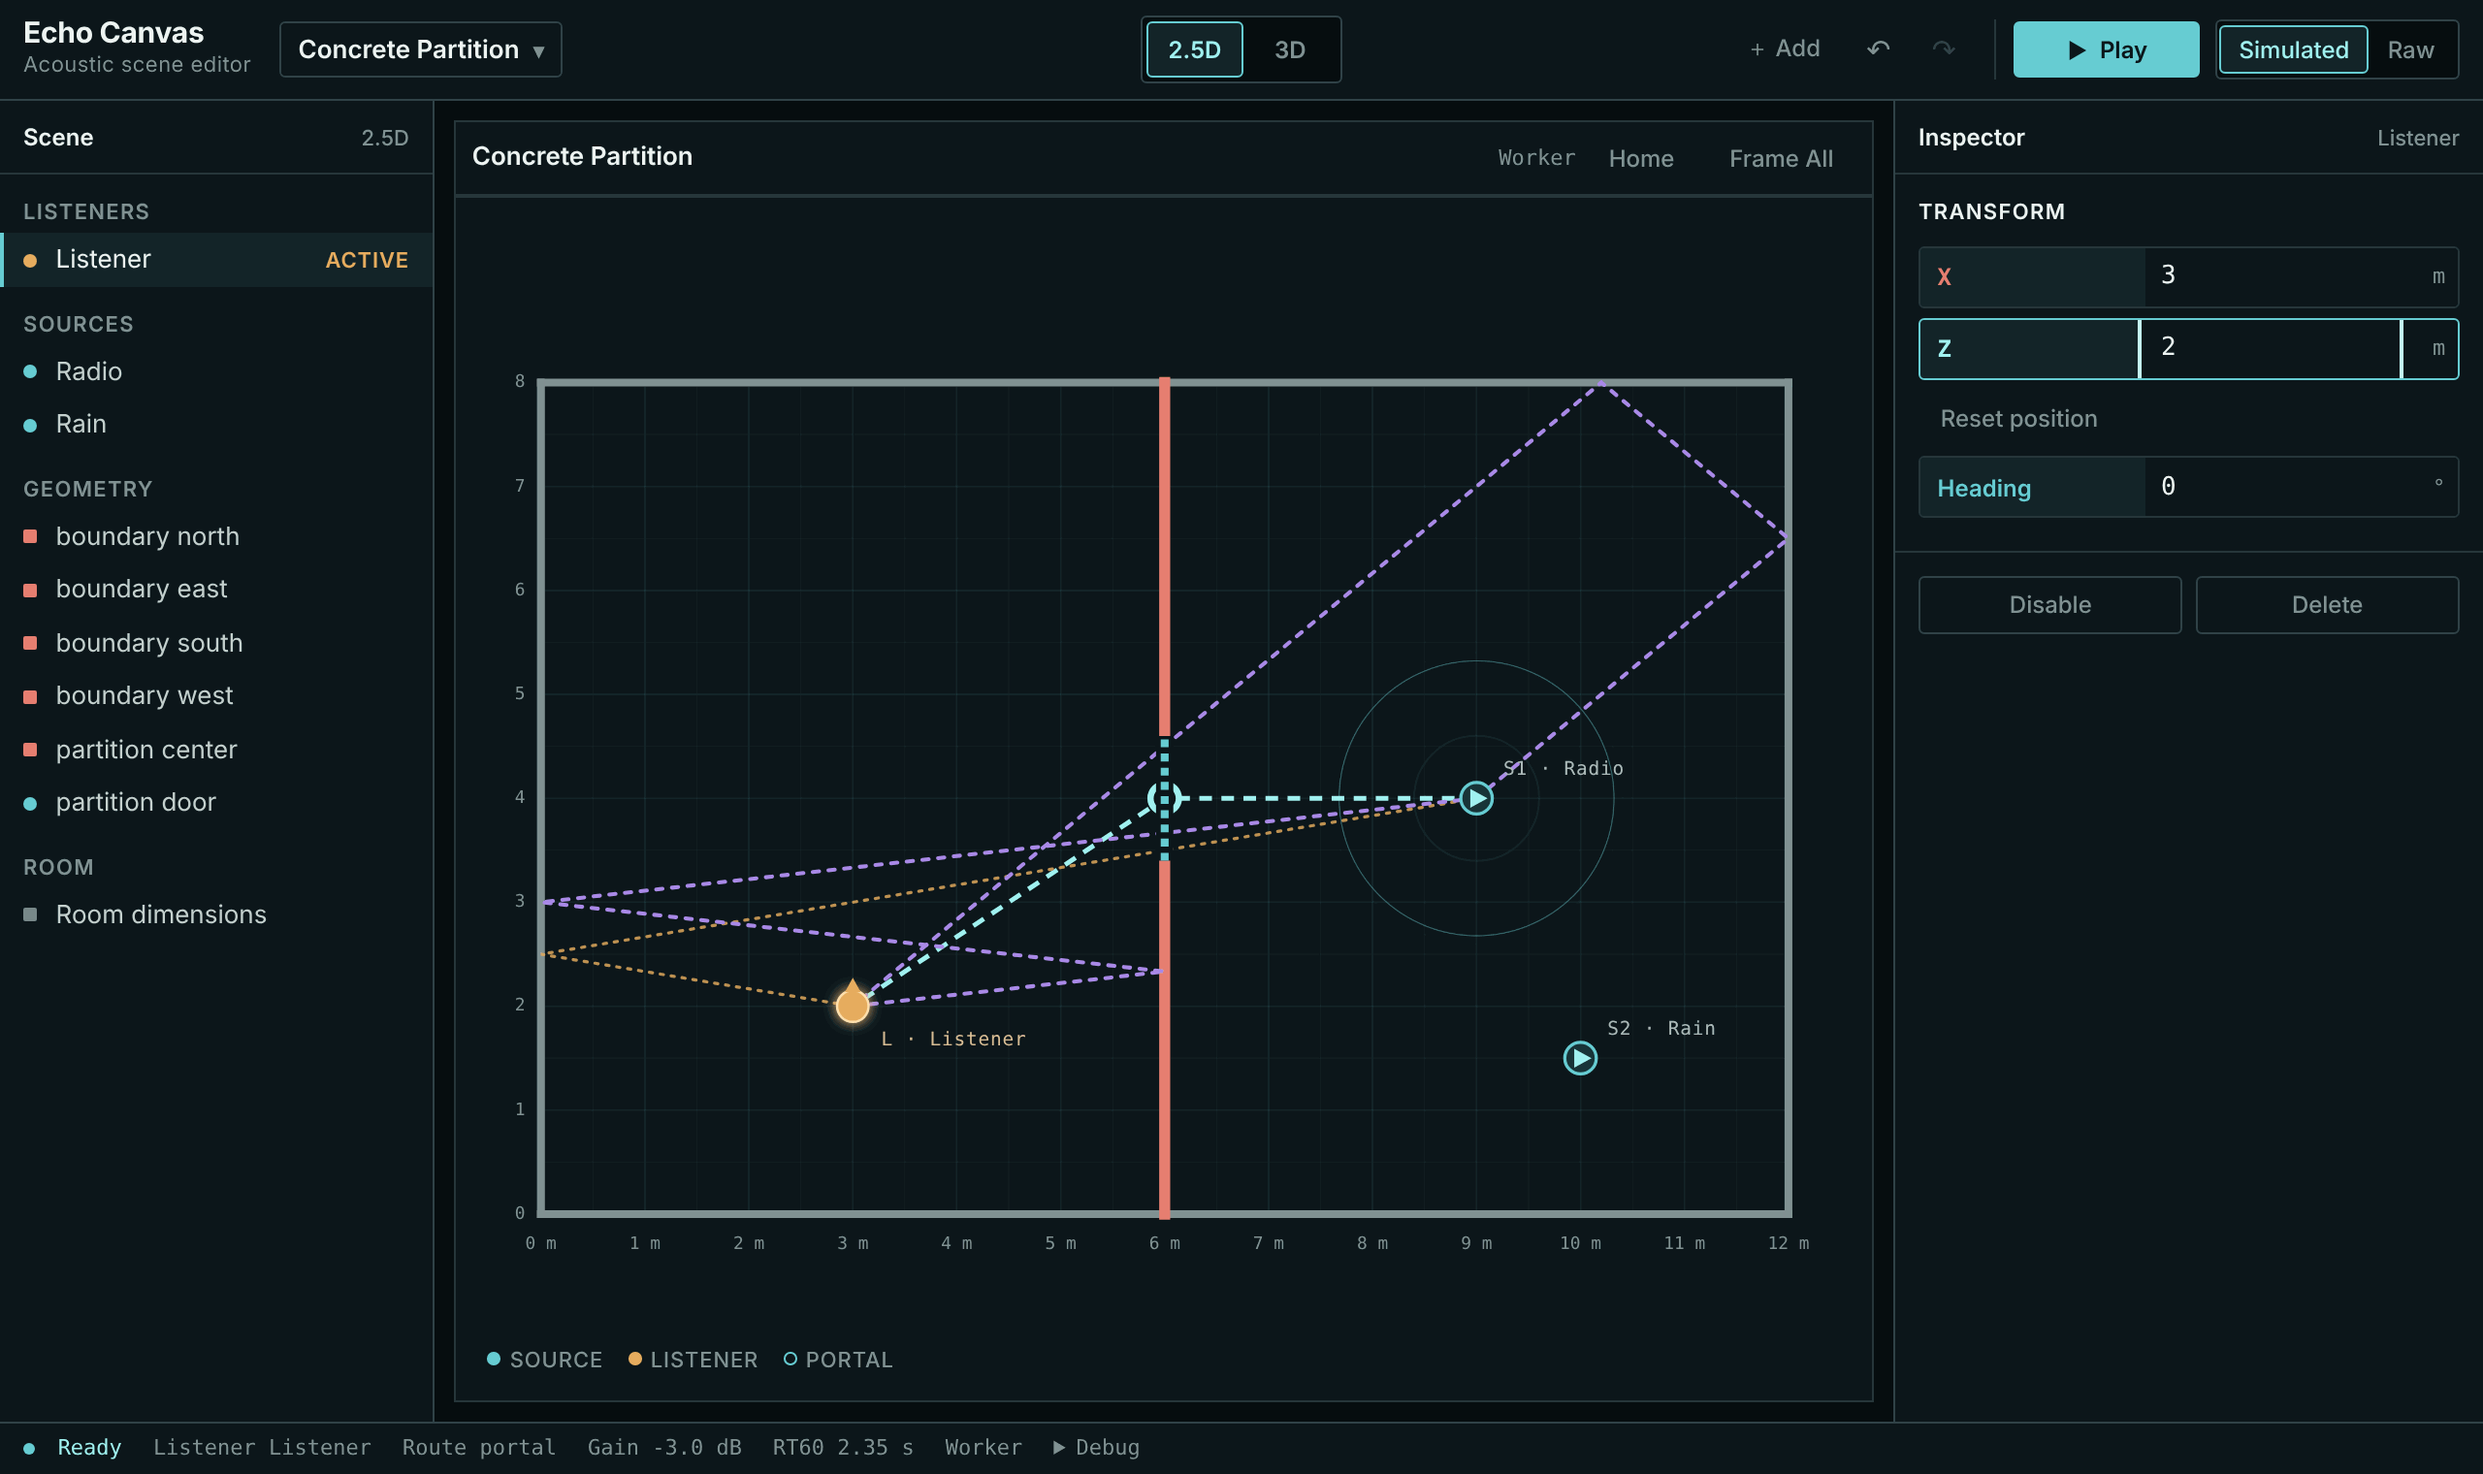
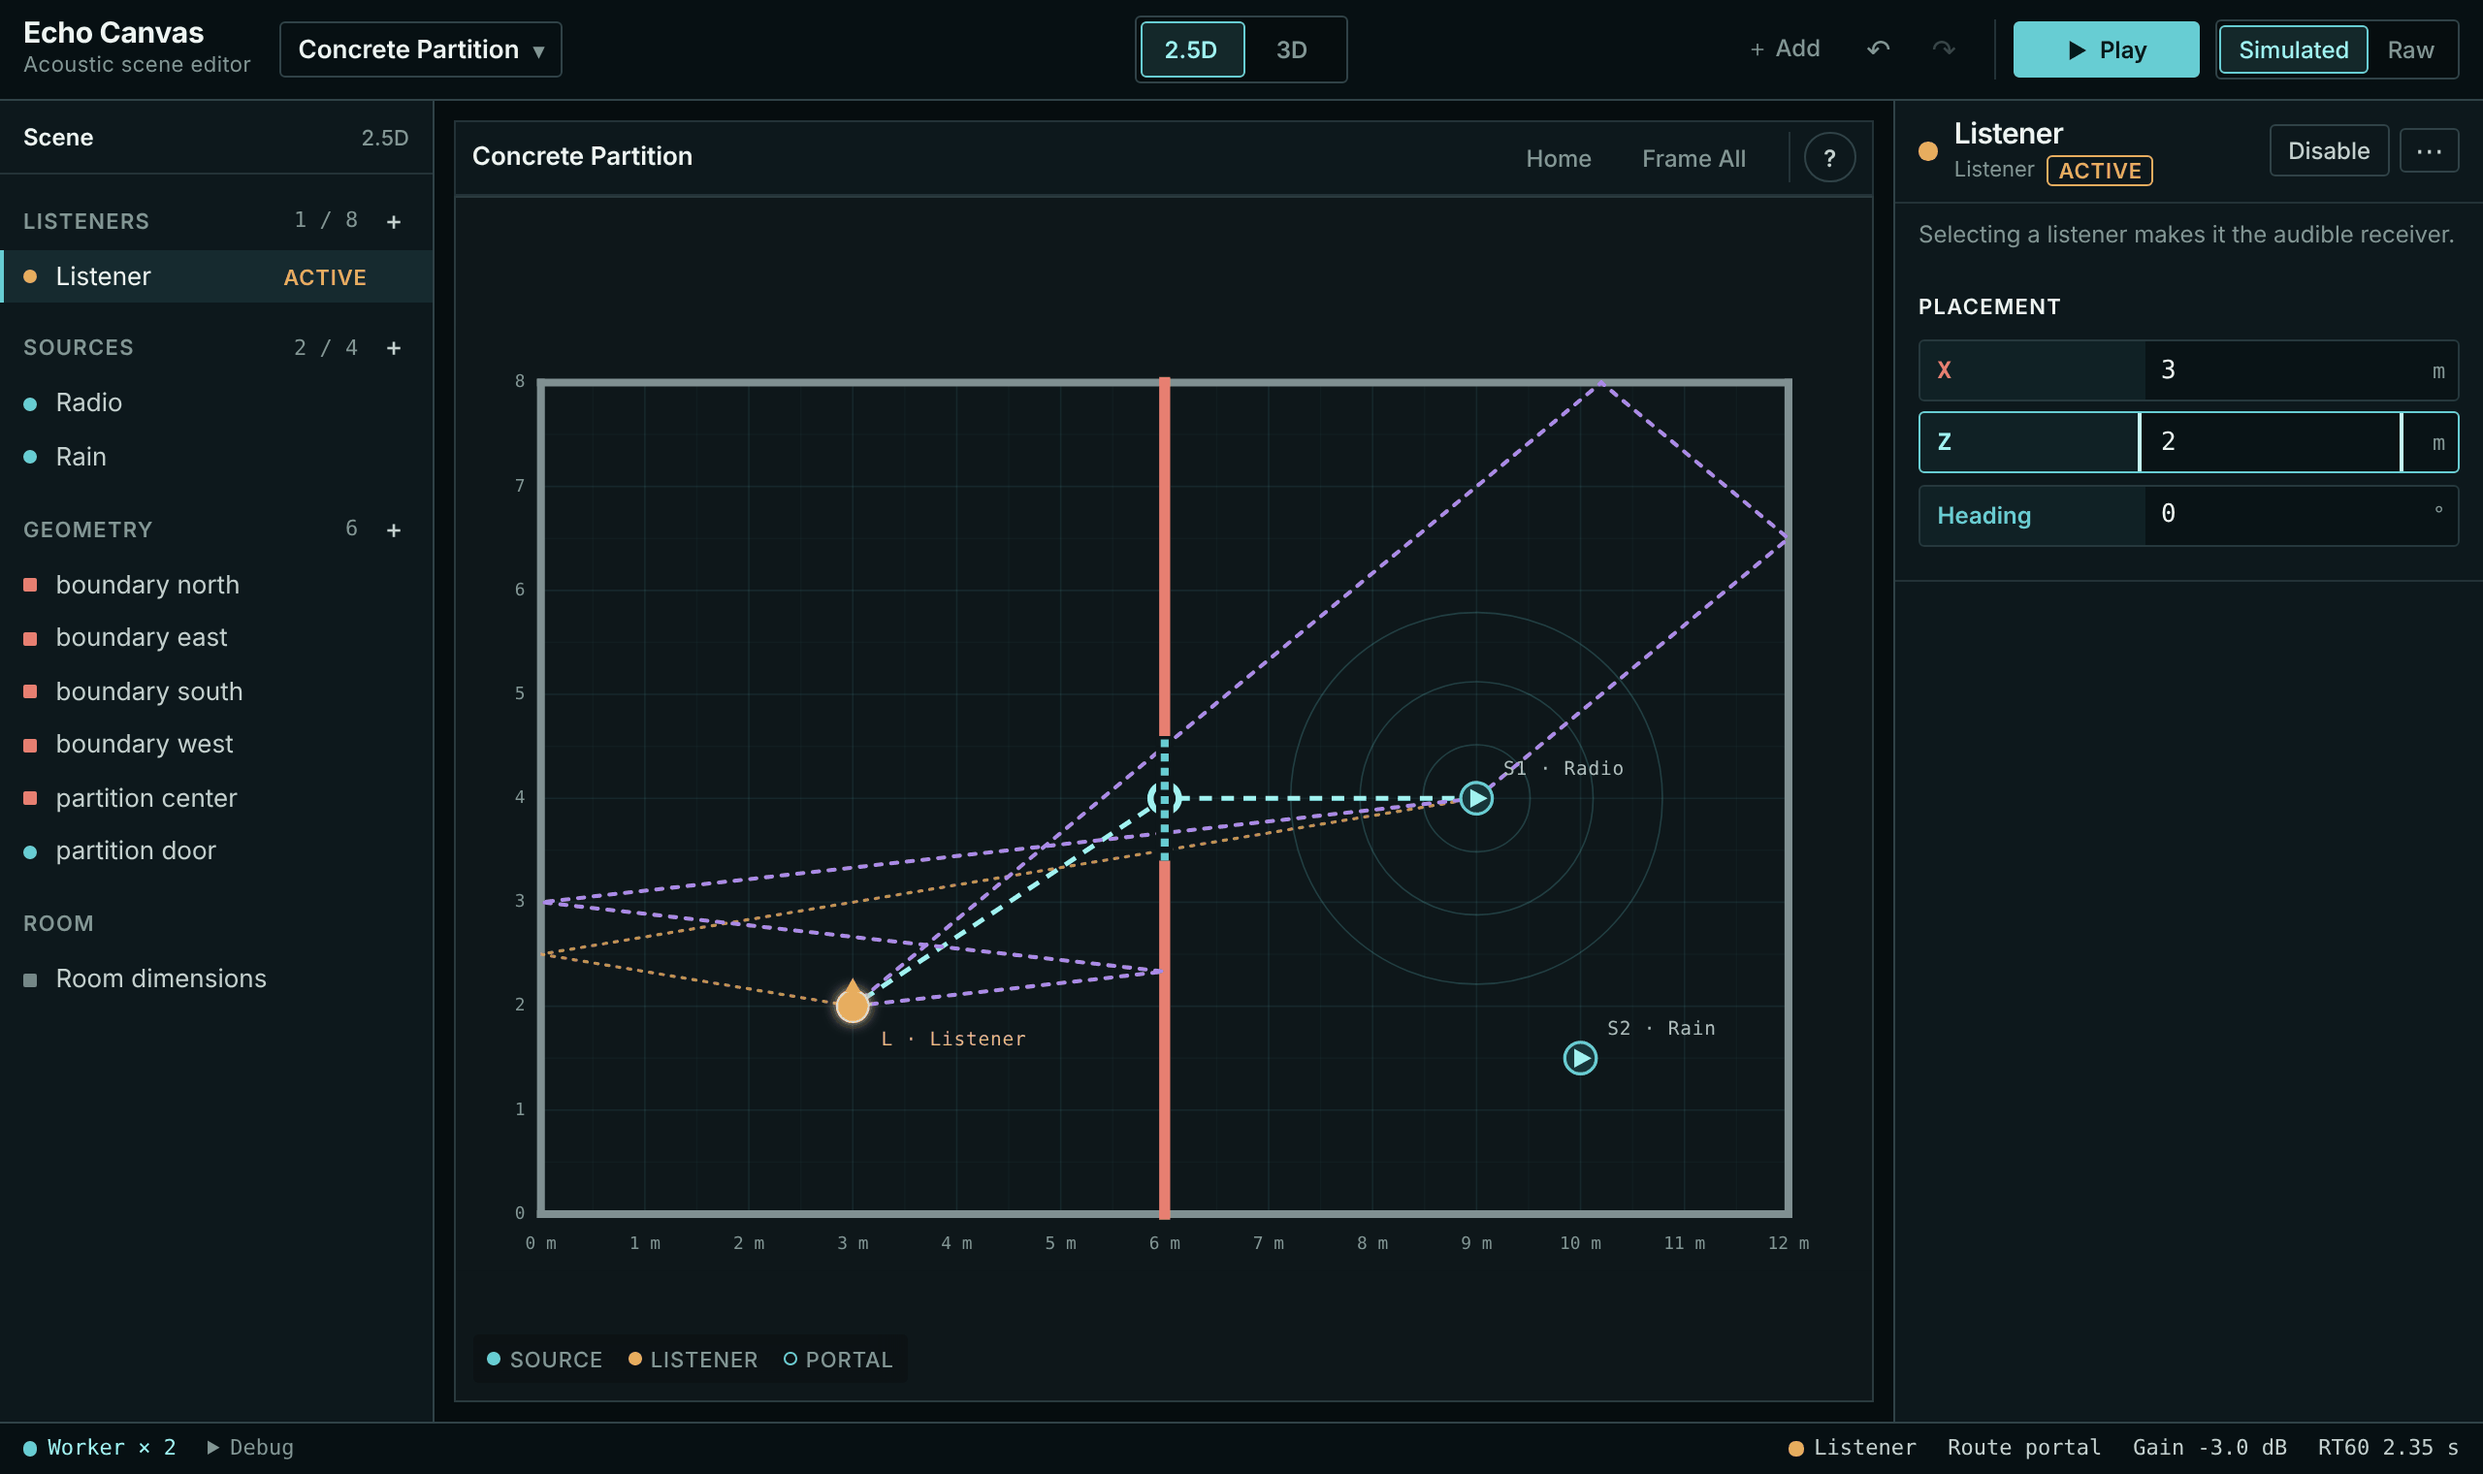
docs(tutorial): update the Portal walkthrough for the redesigned workspace
The walkthrough (#52) was written in parallel with the desktop redesign
(#38) and still named pre-redesign UI: the Inspector's "Transform"
section (now Placement), a "Portal" section for Close Portal (now under
Acoustics), and a project menu that had to be closed after choosing a
preset (it now closes itself). Its screenshots showed the old Inspector
and status bar.

Every step was replayed against a production build of main (480e9c6)
in both modes, importing each fixture: all quoted labels, the
cross-mode rejection message, and every Route/Gain/RT60 value matched
(direct 0.0 dB; portal -3.0 dB, RT60 2.35 s; blocked -24.0 dB in 2.5D
and -34.5 dB in 3D, RT60 3.16 s). Text now names the current sections
and the viewport's Overlays group, quotes the rejection message in
full, and says where the Portal fields live. Both screenshots were
retaken at the same 1280 x 760 viewport and scale factor 2, saved as
256-colour palette PNGs like the originals.

No code, fixture or acoustic change.

Claude-Session: https://claude.ai/code/session_01UU4CXU7JjMW8QCUJU3DBbX

diff --git a/docs/tutorials/portal-walkthrough.md b/docs/tutorials/portal-walkthrough.md
@@ -16,7 +16,7 @@ This walkthrough shows how the workbench chooses between a **direct** path, a **
 | Rain source (S2) | (10, 1.5) | East half, −8 dB |
 | Listener | (3, 4) | West half, heading 0° |
 
-The status bar at the bottom reports **Route**, **Gain** and **RT60** for the selected source, or the first source (Radio) when no source is selected. Every step below reads that status bar.
+The acoustic readout at the right of the bottom status bar reports **Route**, **Gain** and **RT60** for the selected source, or the first source (Radio) when no source is selected. Every step below reads that readout.
 
 ## Fixtures
 
@@ -25,21 +25,21 @@ Two exported authoring projects hold the unmodified preset, one per editor mode.
 - [`fixtures/concrete-partition-classic.authoring.json`](fixtures/concrete-partition-classic.authoring.json): 2.5D
 - [`fixtures/concrete-partition-hybrid.authoring.json`](fixtures/concrete-partition-hybrid.authoring.json): 3D
 
-A project can be imported only into the mode it was exported from. Importing the 3D file in 2.5D is rejected with "3D project cannot be imported into this mode." [`tests/unit/portal-walkthrough-fixture.test.ts`](../../tests/unit/portal-walkthrough-fixture.test.ts) checks that both files import through `parseWorkspaceProject`, that they still match the preset geometry, and that the Classic route states in this guide hold.
+A project can be imported only into the mode it was exported from. Importing the 3D file in 2.5D is rejected with "Import rejected: 3D project cannot be imported into this mode." [`tests/unit/portal-walkthrough-fixture.test.ts`](../../tests/unit/portal-walkthrough-fixture.test.ts) checks that both files import through `parseWorkspaceProject`, that they still match the preset geometry, and that the Classic route states in this guide hold.
 
 ## Part 1: Classic (2.5D)
 
 1. **Choose the mode.** In the toolbar's **Editor mode** group, press **2.5D**. (`/classic` opens directly in 2.5D.)
-2. **Load the scene.** Click the scene-name button at the left of the toolbar (accessible name "Project: …") to open the project menu. Under **Scene**, set **Preset** to **Concrete Partition**. Or, under **Authoring file**, use **Import authoring JSON** and pick `concrete-partition-classic.authoring.json`; the menu then shows "Authoring project imported." Close the menu with Escape.
+2. **Load the scene.** Click the scene-name button at the left of the toolbar (accessible name "Project: …") to open the project menu. Under **Scene**, set **Preset** to **Concrete Partition**; choosing a preset closes the menu. Or, under **Authoring file**, use **Import authoring JSON** and pick `concrete-partition-classic.authoring.json`; the menu then shows "Authoring project imported." Close it with Escape.
 3. **Observe the direct path.** The listener at (3, 4) sees the Radio at (9, 4) straight through the open doorway. The status bar shows `Route direct` and `Gain 0.0 dB`.
 4. **Start audio.** Press **Play** in the toolbar. The browser creates audio only after this user gesture. The button changes to **Stop**.
 5. **Compare Simulated and Raw.** Use the **Simulated** / **Raw** pair next to Play. *Simulated* renders the computed route, reflections and reverb. *Raw* equal-power crossfades to a bus that carries each clip at its source gain, with no distance gain, route filtering, panning, reflections or reverb. The overlays and status bar do not change. *Listening step (for you):* switch between them with headphones and note what changes. This guide makes no claim about what you will hear.
-6. **Move the listener off the doorway line.** In the **Scene Outliner**, under **Listeners**, select **Listener**. In the **Inspector** under **Transform**, set **Z** to `2` and press Enter. You can also drag the listener in the viewport, or focus it and use the arrow keys. The listener at (3, 2) no longer has a direct line to the Radio. The status bar shows `Route portal` and `Gain -3.0 dB`, which is the Portal's 3 dB loss.
+6. **Move the listener off the doorway line.** In the **Scene Outliner**, under **Listeners**, select **Listener**. In the **Inspector** under **Placement**, set **Z** to `2` and press Enter. You can also drag the listener in the viewport, or focus it and use the arrow keys. The listener at (3, 2) no longer has a direct line to the Radio. The status bar shows `Route portal` and `Gain -3.0 dB`, which is the Portal's 3 dB loss.
 7. **Find the listener-facing Portal.** The cyan dashed route goes Radio → doorway centre (6, 4) → listener. A ring marks the doorway centre. That ring is the *last listener-facing Portal*: the final Portal on the route when it is read from source to listener. The audio engine places the Radio's virtual (panner) direction at that point and applies the full route length for distance gain, plus a mild low-pass. *Listening step (for you):* with Simulated on, check whether the Radio appears to come from the doorway direction rather than from its true position.
 
    ![Classic 2.5D view with the listener at X 3, Z 2: a cyan Portal route bends at the doorway ring; status bar shows Route portal, Gain -3.0 dB](portal-walkthrough-classic.png)
 
-8. **Close the Portal.** In the Scene Outliner, under **Geometry**, select **partition door**. In the Inspector's **Portal** section, press **Close Portal**. A closed Portal is removed from the route graph, so the only remaining option is transmission through the concrete. The status bar shows `Route blocked` and `Gain -24.0 dB` (the Classic transmission-loss cap). The doorway ring disappears. RT60 rises from 2.35 s to 3.16 s because the open-door area no longer counts as near-total absorption in the room estimate.
+8. **Close the Portal.** In the Scene Outliner, under **Geometry**, select **partition door**. In the Inspector's **Acoustics** section, press **Close Portal**. A closed Portal is removed from the route graph, so the only remaining option is transmission through the concrete. The status bar shows `Route blocked` and `Gain -24.0 dB` (the Classic transmission-loss cap). The doorway ring disappears. RT60 rises from 2.35 s to 3.16 s because the open-door area no longer counts as near-total absorption in the room estimate.
 9. **Reopen and return.** Press **Open Portal**: `Route portal` returns. Select the listener again and set **Z** back to `4`: `Route direct` returns.
 10. Press **Stop** when finished.
 
@@ -49,7 +49,7 @@ The Hybrid engine has its own 3D project. Changes made in 2.5D do not carry over
 
 1. Press **3D** in the **Editor mode** group.
 2. Load **Concrete Partition** from the project menu's **Preset**, or import `concrete-partition-hybrid.authoring.json`.
-3. With the listener at X 3, Y 1.5 (ear height), Z 4, the status bar shows `Route direct`. The 3D viewport draws the direct line and up to six rendered early reflections. Use **Paths** to hide or show path overlays, and **Show all paths** to include every source.
+3. With the listener at X 3, Y 1.5 (ear height), Z 4, the status bar shows `Route direct`. The 3D viewport draws the direct line and up to six rendered early reflections. In the viewport header's **Overlays** group, use **Paths** to hide or show path overlays, and **Show all paths** to include every source.
 4. Press **Play**, and compare **Simulated** and **Raw** as in Classic. *Listening step (for you):* this guide records no listening result.
 5. Select **Listener** and set **Z** to `2`. The status bar shows `Route portal` and `Gain -3.0 dB`. The cyan path bends at the doorway: source → last listener-facing Portal → listener. Hybrid lifts the planar Portal candidate into 3D and checks every leg against the finite 3D geometry, so a route through the doorway must also pass between the Portal's **Bottom** and **Top** (0 m and 2.1 m here).
 
@@ -58,14 +58,14 @@ The Hybrid engine has its own 3D project. Changes made in 2.5D do not carry over
 6. Select **partition door** and press **Close Portal**. The status bar shows `Route blocked`. In this build the Gain read `-34.5 dB`, because Hybrid uses its own transmission model with a 36 dB cap. The overlay keeps only the blocked direct line. RT60 changes from 2.35 s to 3.16 s.
 7. Press **Open Portal**, set the listener **Z** back to `4`, and press **Stop**.
 
-To experiment further, you can move the Portal along its wall (**Offset on Wall**), change **Width**, or in 3D change **Bottom** / **Top**, and watch when the route switches between `direct`, `portal` and `blocked`.
+To experiment further, select **partition door** and move the Portal along its wall (**Offset on Wall**, in the Inspector's **Placement** section) or change **Width** and, in 3D, **Bottom** / **Top** (all in **Shape**). Watch when the route switches between `direct`, `portal` and `blocked`.
 
 ## Evidence for this guide
 
 | Kind | What was checked | Environment |
 | --- | --- | --- |
 | Numerical (Vitest) | Fixtures import in their own mode and are rejected in the other; geometry matches the preset; Classic Radio route is `direct` at (3, 4), `portal` through `partition_door` with virtual position (6, 4) at (3, 2), and `blocked` with the Portal closed | Node 22, `pnpm test` |
-| Rendered browser (visual) | Every label and status-bar value quoted above, in both modes, after importing each fixture through **Import authoring JSON** against `pnpm build && pnpm start` | Headless Chrome for Testing 153.0.8010.12, Linux, 1280 × 760 viewport, device scale factor 2 (screenshots) |
+| Rendered browser (visual) | Every label and status-bar value quoted above, in both modes, after importing each fixture through **Import authoring JSON** against `pnpm build && pnpm start`. Re-checked, and both screenshots retaken, after the desktop workspace redesign (#38), on `main` at 480e9c6 | Headless Chrome for Testing 153.0.8010.12, Linux, 1280 × 760 viewport, device scale factor 2 (screenshots) |
 | Listening | **Not run.** All listening steps are instructions for the reader. | — |
 
 Gain and RT60 values are display values rounded by the status bar. They are observations from this build, not tolerances. The Vitest checks cover route types and the Portal ID only.
